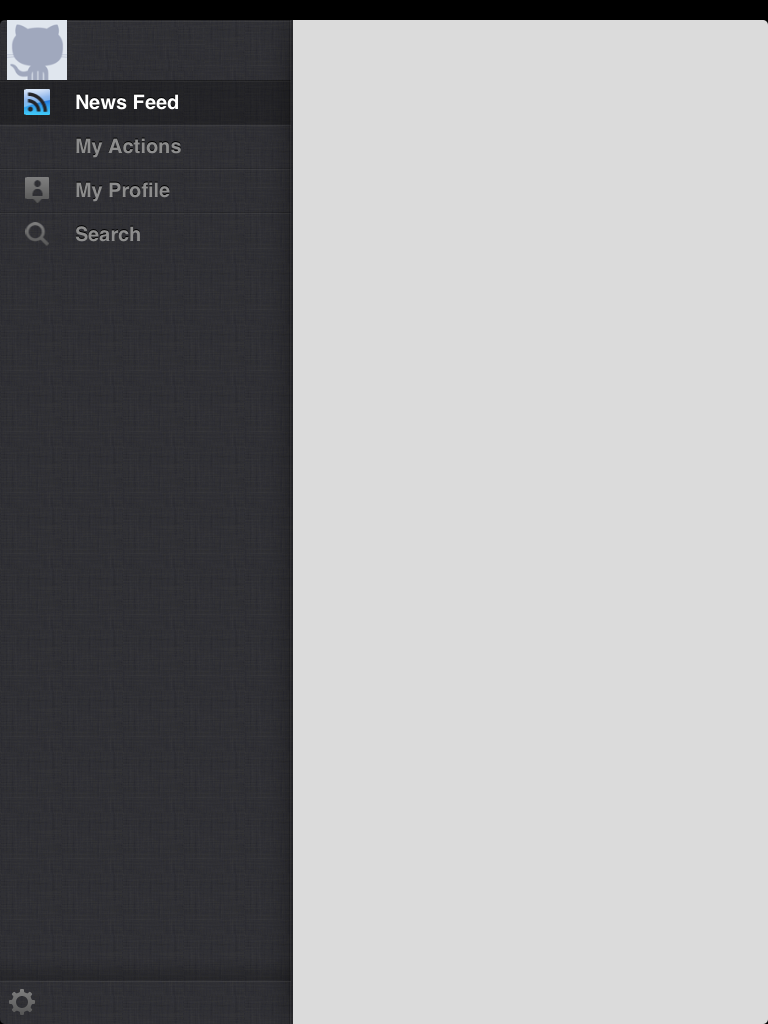
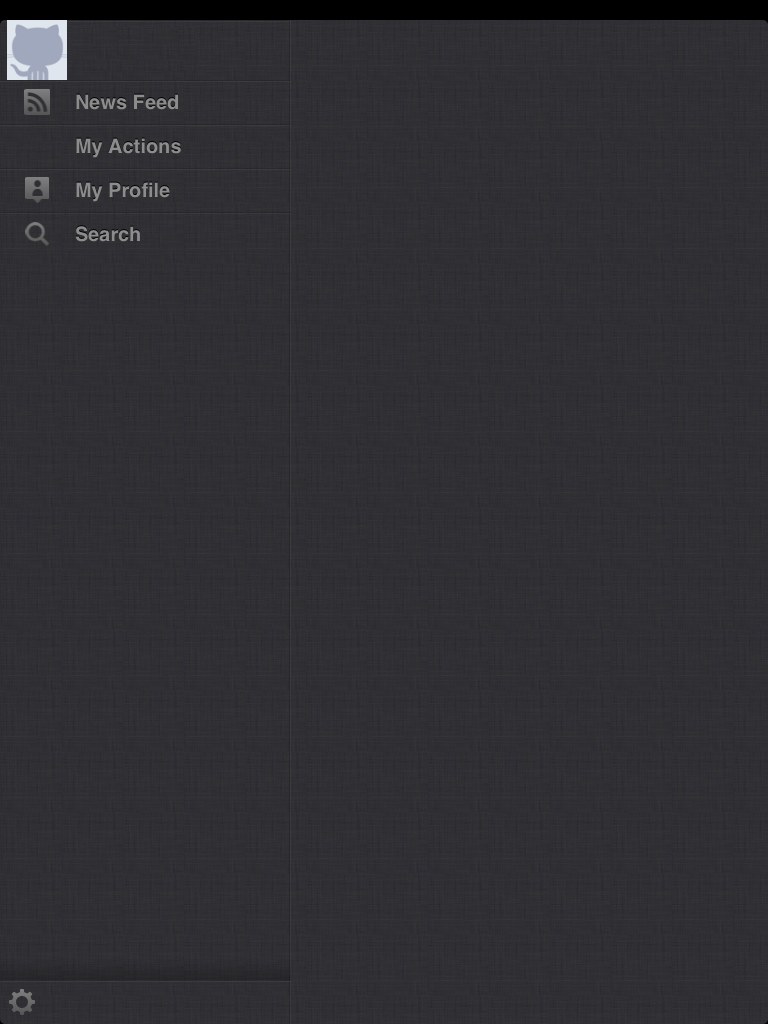
updated defaults on iPad

diff --git a/iGithub/iPad/iGithubAppDelegate_iPad.h b/iGithub/iPad/iGithubAppDelegate_iPad.h
@@ -10,8 +10,6 @@
 #import "iGithubAppDelegate.h"
 #import "ANAdvancedNavigationController.h"
 
-#warning update Default.png to match new state
-
 @interface iGithubAppDelegate_iPad : iGithubAppDelegate <ANAdvancedNavigationControllerDelegate> {
     ANAdvancedNavigationController *_advancedNavigationController;
 }
